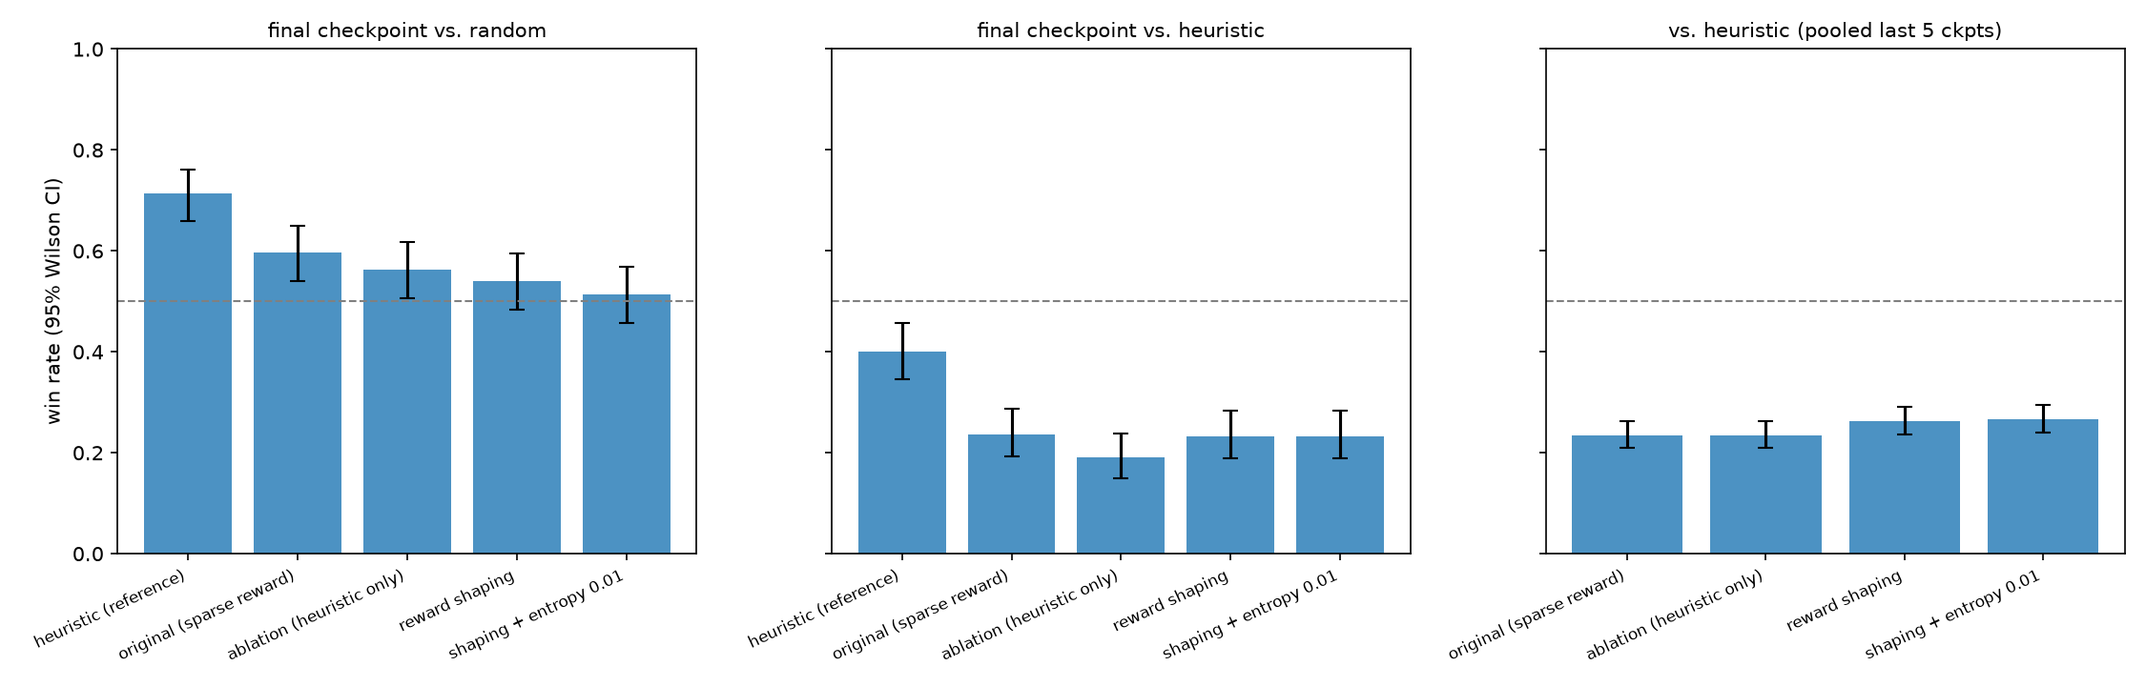
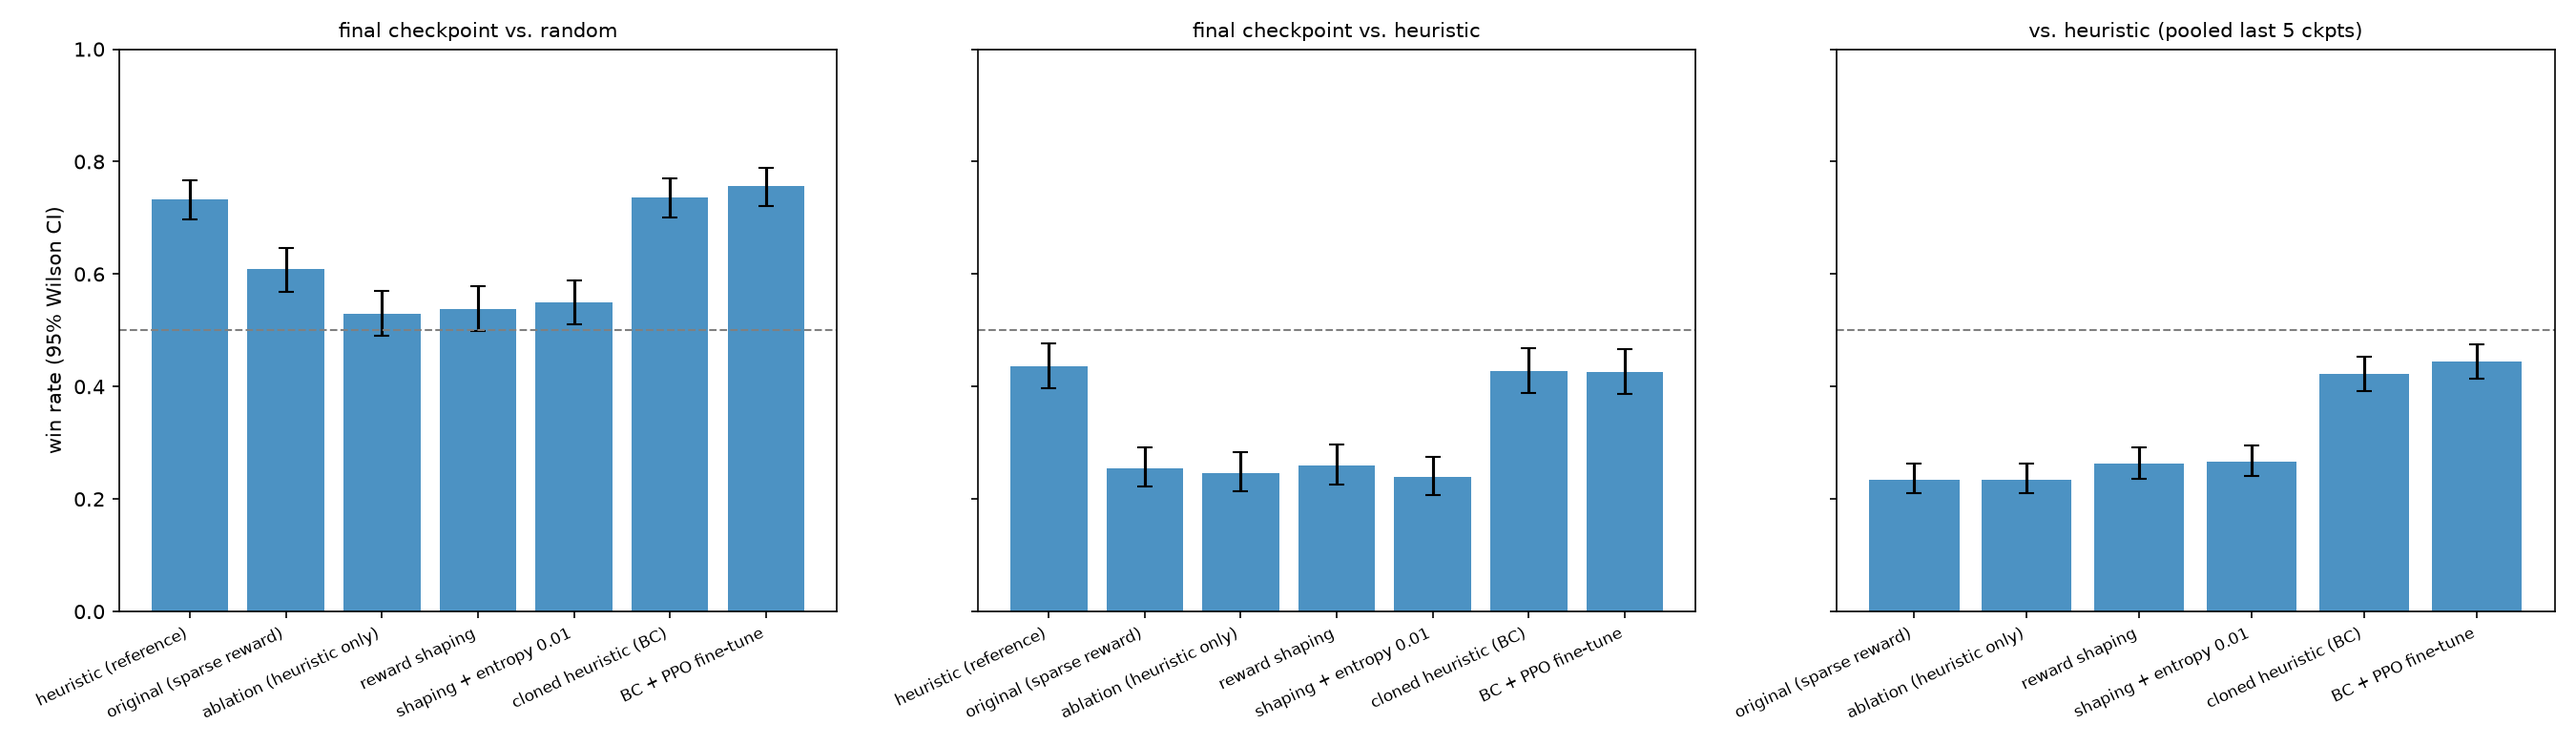
PPO fine-tuning from the cloned policy holds heuristic level, does not exceed it
Evaluated all six models on 600 held-out deals per opponent plus pooled
last-5-checkpoint runs (1000 games), 95% Wilson intervals.

- PPO from scratch (4 variants): 24-27% vs the heuristic, ~18 points below it.
- Behavior cloning: 42.8% vs the heuristic, statistically identical to the
  heuristic playing itself (43.7%).
- Cloning + PPO fine-tune (value-head warm-up, league seeded with the clone,
  lr 3e-5, 400k steps): 42.7% final, 44.4% pooled vs the clone's 42.2% --
  a +2 point gap inside the noise. Higher vs-random win rate is fewer
  nagari draws; among decisive games it is 83.9% vs the clone's 84.0%.

So warm-starting keeps PPO at 43% where from-scratch stalls at 25%, but it
did not find play that beats the heuristic. README results section rewritten
around this; untested suspect noted (league drops the cloned seed after 125k
steps). final_eval.py now also scores single-file models.

diff --git a/rl/final_eval.py b/rl/final_eval.py
@@ -23,20 +23,30 @@ from rl.model_agent import make_model_policy
 PROJECT_ROOT = Path(__file__).resolve().parent.parent
 EVAL_BASE_SEED = HELDOUT_EVAL_SEED
 
-# label -> checkpoint directory (the newest ckpt_*.zip in it is the final model)
+# label -> a checkpoint directory (its newest ckpt_*.zip is the final model, and its last few
+# are pooled) or a single .zip file (one model, pooled with itself)
 EXPERIMENTS = {
     "original (sparse reward)": "checkpoints",
     "ablation (heuristic only)": "checkpoints_ablation_heuristic",
     "reward shaping": "checkpoints_reward_shaping",
     "shaping + entropy 0.01": "checkpoints_entropy_tuning",
+    "cloned heuristic (BC)": "checkpoints_bc/bc_model.zip",
+    "BC + PPO fine-tune": "checkpoints_finetune",
 }
 
 
-def latest_checkpoint(directory: Path) -> Path:
-    files = sorted(directory.glob("ckpt_*.zip"))
+def checkpoints_for(path: Path, k: int = 1) -> list[Path]:
+    """The last k checkpoints of a run directory, or the single file itself."""
+    if path.is_file():
+        return [path]
+    files = sorted(path.glob("ckpt_*.zip"))
     if not files:
-        raise FileNotFoundError(f"no checkpoints in {directory}")
-    return files[-1]
+        raise FileNotFoundError(f"no checkpoints in {path}")
+    return files[-k:]
+
+
+def latest_checkpoint(path: Path) -> Path:
+    return checkpoints_for(path, 1)[-1]
 
 
 def score(policy, opponent, episodes: int, seed: int) -> dict:
@@ -85,9 +95,11 @@ def main(episodes: int, pooled_k: int, pooled_episodes: int) -> None:
 
     pooled_label = f"heuristic (pooled last {pooled_k} ckpts)"
     for label, directory in EXPERIMENTS.items():
-        paths = sorted((PROJECT_ROOT / directory).glob("ckpt_*.zip"))[-pooled_k:]
+        paths = checkpoints_for(PROJECT_ROOT / directory, pooled_k)
+        # A single-file model has nothing to pool over; give it the same total games instead.
+        each = pooled_episodes if len(paths) > 1 else pooled_episodes * pooled_k
         rows.append({"model": label, "opponent": pooled_label,
-                     **pooled_score(paths, heuristic_policy, pooled_episodes, EVAL_BASE_SEED)})
+                     **pooled_score(paths, heuristic_policy, each, EVAL_BASE_SEED)})
         print(rows[-1], flush=True)
 
     out_csv = PROJECT_ROOT / "checkpoints" / "final_eval.csv"
@@ -103,7 +115,7 @@ def main(episodes: int, pooled_k: int, pooled_episodes: int) -> None:
 
 def plot(rows: list[dict], out_path: Path, episodes: int, pooled_label: str) -> None:
     opponents = ("random", "heuristic", pooled_label)
-    fig, axes = plt.subplots(1, 3, figsize=(15, 4.8), sharey=True)
+    fig, axes = plt.subplots(1, 3, figsize=(18, 5.2), sharey=True)
     for ax, opp in zip(axes, opponents):
         subset = [r for r in rows if r["opponent"] == opp]
         labels = [r["model"] for r in subset]

diff --git a/README.md b/README.md
@@ -74,44 +74,51 @@ reasoning for the genuinely contested ones (ppeok sequencing especially). Every 
 
 ## Results
 
-Short version: the agent learned a real policy that beats random play, but **no variant I trained
-beats the hand-written heuristic baseline**, and none of the changes I tried (league design, reward
-shaping, entropy bonus) moved that outcome by more than a few points. The heuristic is a simple
-greedy rule (take the most valuable capture available, always bomb, stop at a score/deck threshold),
-so this is a genuine gap, not a strong baseline being unbeatable.
+Short version: **imitation learning matched a hand-written heuristic baseline, PPO from scratch did
+not, and PPO fine-tuning from the imitation start preserved heuristic-level play but did not exceed
+it.** The heuristic is a simple greedy rule (take the most valuable capture available, always bomb,
+stop at a score/deck threshold), so beating it is a real bar, not a strawman.
 
 ![Final evaluation](checkpoints/final_eval.png)
 
-Each model's final checkpoint was re-scored on 300 fresh deals per opponent, and its last 5
+Every model's final checkpoint was scored on 600 held-out deals per opponent, and each run's last 5
 checkpoints were pooled at 200 deals each (1000 games) against the heuristic. Error bars are 95%
 Wilson intervals. Deals are seeded well above anything training-time evaluation used, and the
-harness alternates dealer and seat so neither can bias a rate. Raw numbers: `checkpoints/final_eval.csv`
-(`python -m rl.final_eval`).
+harness alternates dealer and seat so neither can bias a rate. Raw numbers:
+`checkpoints/final_eval.csv` (`python -m rl.final_eval`).
 
 | Model | vs. random (final) | vs. heuristic (final) | vs. heuristic (pooled last 5) |
 |---|---|---|---|
-| heuristic (reference) | 71.3% [66.0, 76.2] | 40.0% [34.6, 45.6] (vs. itself) | — |
-| original (sparse terminal reward) | 59.7% [54.0, 65.1] | 23.7% [19.2, 28.8] | 23.5% [21.0, 26.2] |
-| ablation (heuristic opponent only) | 56.3% [50.7, 61.8] | 19.0% [15.0, 23.8] | 23.5% [21.0, 26.2] |
-| + reward shaping | 54.0% [48.3, 59.6] | 23.3% [18.9, 28.4] | 26.3% [23.7, 29.1] |
-| + shaping and entropy bonus 0.01 | 51.3% [45.7, 56.9] | 23.3% [18.9, 28.4] | 26.7% [24.1, 29.5] |
+| heuristic (reference) | 73.3% [69.7, 76.7] | 43.7% [39.8, 47.7] (vs. itself) | n/a |
+| PPO from scratch, sparse reward | 60.8% [56.9, 64.7] | 25.5% [22.2, 29.1] | 23.5% [21.0, 26.2] |
+| ...against the heuristic only (no league) | 53.0% [49.0, 57.0] | 24.7% [21.4, 28.3] | 23.5% [21.0, 26.2] |
+| ...+ reward shaping | 53.8% [49.8, 57.8] | 26.0% [22.7, 29.7] | 26.3% [23.7, 29.1] |
+| ...+ shaping and entropy bonus | 55.0% [51.0, 58.9] | 24.0% [20.8, 27.6] | 26.7% [24.1, 29.5] |
+| **cloned heuristic (behavior cloning)** | 73.7% [70.0, 77.0] | **42.8%** [38.9, 46.8] | 42.2% [39.2, 45.3] |
+| **cloning + PPO fine-tune** | 75.7% [72.1, 78.9] | **42.7%** [38.8, 46.7] | 44.4% [41.3, 47.5] |
 
-(All rates are wins over all games; about 15-20% of hands end in nagari with no winner. The
-heuristic-vs-itself row landing at 40% / 39% is a symmetry sanity check on the harness.)
+(Rates are wins over all games; 15-20% of hands end in nagari with no winner, which is why the
+heuristic playing itself scores 43.7%, not 50%: among decisive games it splits 262 to 223.)
 
 ### What the experiments show
 
-- **Learning happened, but not far.** Every trained model beats random (roughly 51-60%), yet the
-  heuristic beats random 71% of the time. The agents sit between random and the heuristic.
-- **League vs. single-opponent training: no difference.** The self-play league and an agent trained
-  only against the frozen heuristic score identically against the heuristic (23.5% both, pooled).
-  So the league's opponent mix is not what's holding the agent back.
-- **Reward shaping and entropy bonus: at most a small effect, not established.** The two runs with
-  dense potential-based shaping (`reward_shaping` in `rl/env.py`) pool to about 26.5% against the
-  heuristic versus 23.5% without, a gap of ~3 points. That is suggestive but borderline even on
-  evaluation noise alone, and it comes from one training run per configuration, so it cannot be
-  separated from run-to-run training variance. On the final snapshots alone there is no difference
-  (23.3% vs 23.7%). The entropy bonus made no measurable difference on top of shaping (26.7% vs 26.3%).
+- **PPO from scratch plateaus far below the heuristic, whatever I changed.** Four variants (sparse
+  reward, heuristic-only opponent, reward shaping, shaping plus entropy) all land at 24-27% against
+  the heuristic, about 18 points below it, with non-overlapping intervals. They beat random
+  (roughly 53-61%) but sit between random and the heuristic.
+- **The plateau is not the league.** Training against only the frozen heuristic scored the same
+  as the self-play league (23.5% both, pooled), so the opponent mix is not what holds the agent back.
+- **Reward shaping and the entropy bonus: at most a small effect, not established.** The two runs
+  with dense potential-based shaping (`reward_shaping` in `rl/env.py`) pool to about 26.5% against
+  the heuristic versus 23.5% without, a ~3 point gap that is borderline on evaluation noise alone and
+  comes from one training run per configuration, so it can't be separated from run-to-run variance.
+  On the final snapshots there is no difference (26.0% vs 25.5%), and the entropy bonus changed nothing.
+- **Imitation closes the gap immediately.** The same network, trained by supervised learning to copy
+  the heuristic, reaches heuristic-level play (42.8% vs. the heuristic's 43.7% against itself).
+- **PPO fine-tuning from that start did not beat the heuristic.** It held the cloned model's level
+  (42.7% final) and the pooled late-checkpoint rate is 2 points higher (44.4% vs 42.2%), which is inside
+  the noise. Its higher vs-random win rate is fewer nagari draws, not better play: among decisive
+  games it wins 83.9% against random, the same as the clone (84.0%) and the heuristic (83.5%).
 
 ### A correction worth stating
 
@@ -150,8 +157,8 @@ Data: 20,000 games (~400k states), every state labeled with the heuristic's acti
 | Agreement with the heuristic on held-out states | **95.9%** (random guessing: 29.9%) |
 | ...by decision type | play-card 95.7%, bomb 100%, go/stop 98.5% |
 | Epochs to reach ~96% | about 5 |
-| Cloned model vs. heuristic (300 games) | **39.3%** [34.0, 45.0], 118 wins to 122 |
-| Heuristic vs. itself (reference) | 40.0% [34.6, 45.6] |
+| Cloned model vs. heuristic (first 300 deals; 600 in the table above: 42.8%) | **39.3%** [34.0, 45.0], 118 wins to 122 |
+| Heuristic vs. itself, same 300 deals (43.7% over 600) | 40.0% [34.6, 45.6] |
 | Cloned model vs. random (300 games) | 73.3% [68.1, 78.0] (heuristic: 71.3%) |
 
 **The hypothesis was wrong, and that is the useful result.** The observation encoding and
@@ -161,12 +168,29 @@ supervised learning. So the bottleneck is the RL procedure (credit assignment an
 noisy, imperfect-information game at this sample budget), not what the network can represent. That
 reframes the next experiment: start PPO from the cloned policy instead of from scratch.
 
+### Warm-starting PPO from the clone
+
+If the network can represent a heuristic-level policy, the natural move is to start PPO there
+instead of asking it to rediscover one (`rl/finetune.py`). Two things keep PPO from wrecking a good
+starting policy. First, the cloned network's value head is untrained (cloning only fits the policy),
+so PPO's first updates would compute advantages from noise; I fit the value head to Monte-Carlo
+returns with the policy frozen (error 0.47 to 0.14, about 49% of return variance explained).
+Second, the opponent league is seeded with the cloned model so the learner starts against
+heuristic-level opponents. Learning rate is 3e-5, ten times lower than from scratch.
+
+400k steps later the model is still at heuristic level and no better. That's a real result:
+warm-starting kept PPO at 43% where from-scratch training stalls at 25%, but it did not find play
+that beats a heuristic teacher. One untested suspect is my own league design: it keeps only the 5
+most recent checkpoints, so the cloned seed leaves the pool after 125k steps and the learner mostly
+plays earlier versions of itself. Fine-tuning against the heuristic directly, with a higher learning
+rate, is the obvious next experiment.
+
 Known evaluation caveat: the random opponent draws from an unseeded generator, so the vs-random
 columns shift by a few points between reruns (the vs-heuristic columns are exactly reproducible).
 
 ## Testing
 
-87 pytest tests, including:
+88 pytest tests, including:
 - Full rules coverage (cards, dealing, capture/ppeok/ttadak/bombs, scoring, go/stop/nagari) with
   hand-checked example hands
 - A 100-seed randomized full-hand simulation that checks card conservation and termination on every
@@ -235,7 +259,7 @@ rl/        Gym env, action/observation encoding, baselines, self-play PPO traini
 api/       FastAPI session + bot-inference layer
 web/       React + TypeScript frontend
 scripts/   play_cli.py -- terminal play for manual sanity-checking
-tests/     87 pytest tests across all of the above
+tests/     88 pytest tests across all of the above
 checkpoints/  trained model checkpoints (gitignored) + training_log.csv + the curve plot
 ```
 
